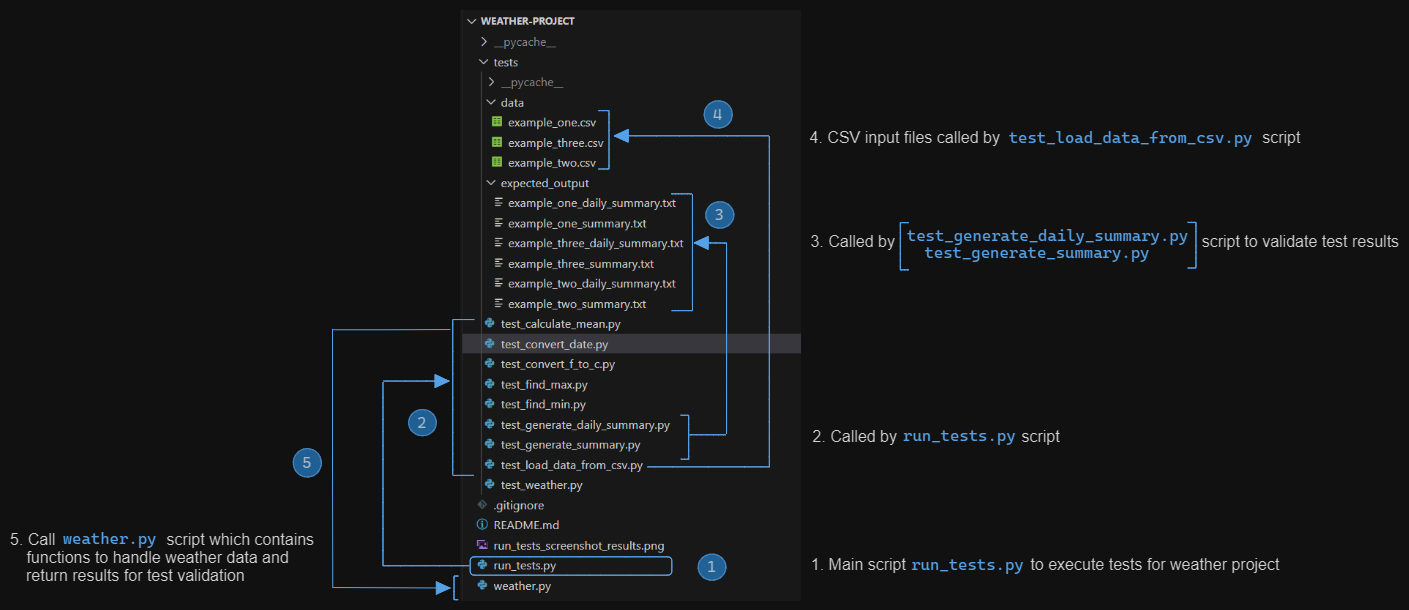
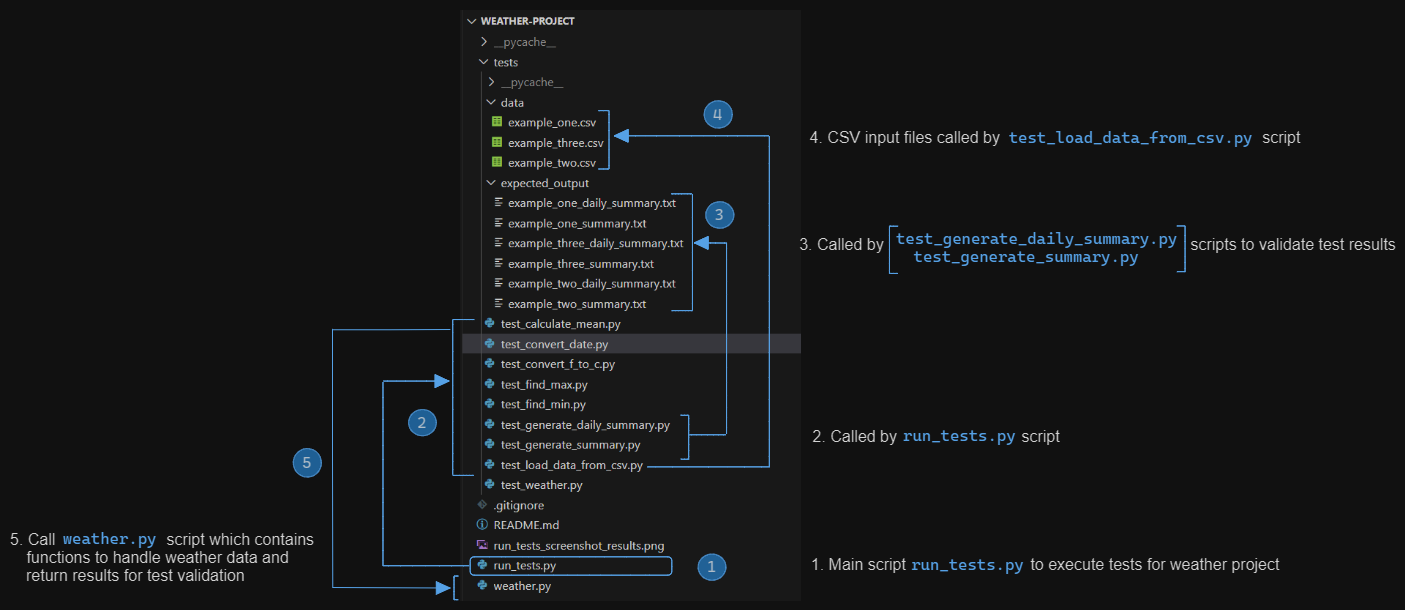
updates to high level flow of project files to readme

diff --git a/README.md b/README.md
@@ -7,17 +7,21 @@
 ## Screenshots of run_tests.py 
 
 - Screenshot of unit test being run and successful results
+
 ![ Screenshot of results]( ./run_tests_screenshot_results.png "Test results screenshot")
 
 ## High Level Flow of Project
 
-- A high level flow of the scripts and how they are called is provided in the screenshot
+- A high level flow of the scripts and how they are called in the weather project is provided in the screenshot
+- The **run_tests.py** script is the main script to be executed to run the weather data tests
+- The **weather.py** script contains the functions that contain the core logic for handling weather data input and returning results
+
 ![ High Level Flow ]( ./project_overview.png "High Level Flow of Project")
 
 ## Details of Unit Tests
 
 - A summary of each unit test is provided below
-- Each test calls a separate script that contains the expected test data result to compare against the results returned from the function called in the **weather.py** script except for **GenerateSummaryTests** and **GenerateDailySummaryTests**. These compare the results returned by weather.py script against separate results files.
+- Each test calls a separate script that contains the expected test data result to compare against the results returned from the function called in the **weather.py** script except for **GenerateSummaryTests** and **GenerateDailySummaryTests**. These compare the results returned by **weather.py** script against separate results files.
 - 1 function is supplied in **weather.py** script to format a string with degrees celcius symbols
 
 ### ConvertDateTests 
